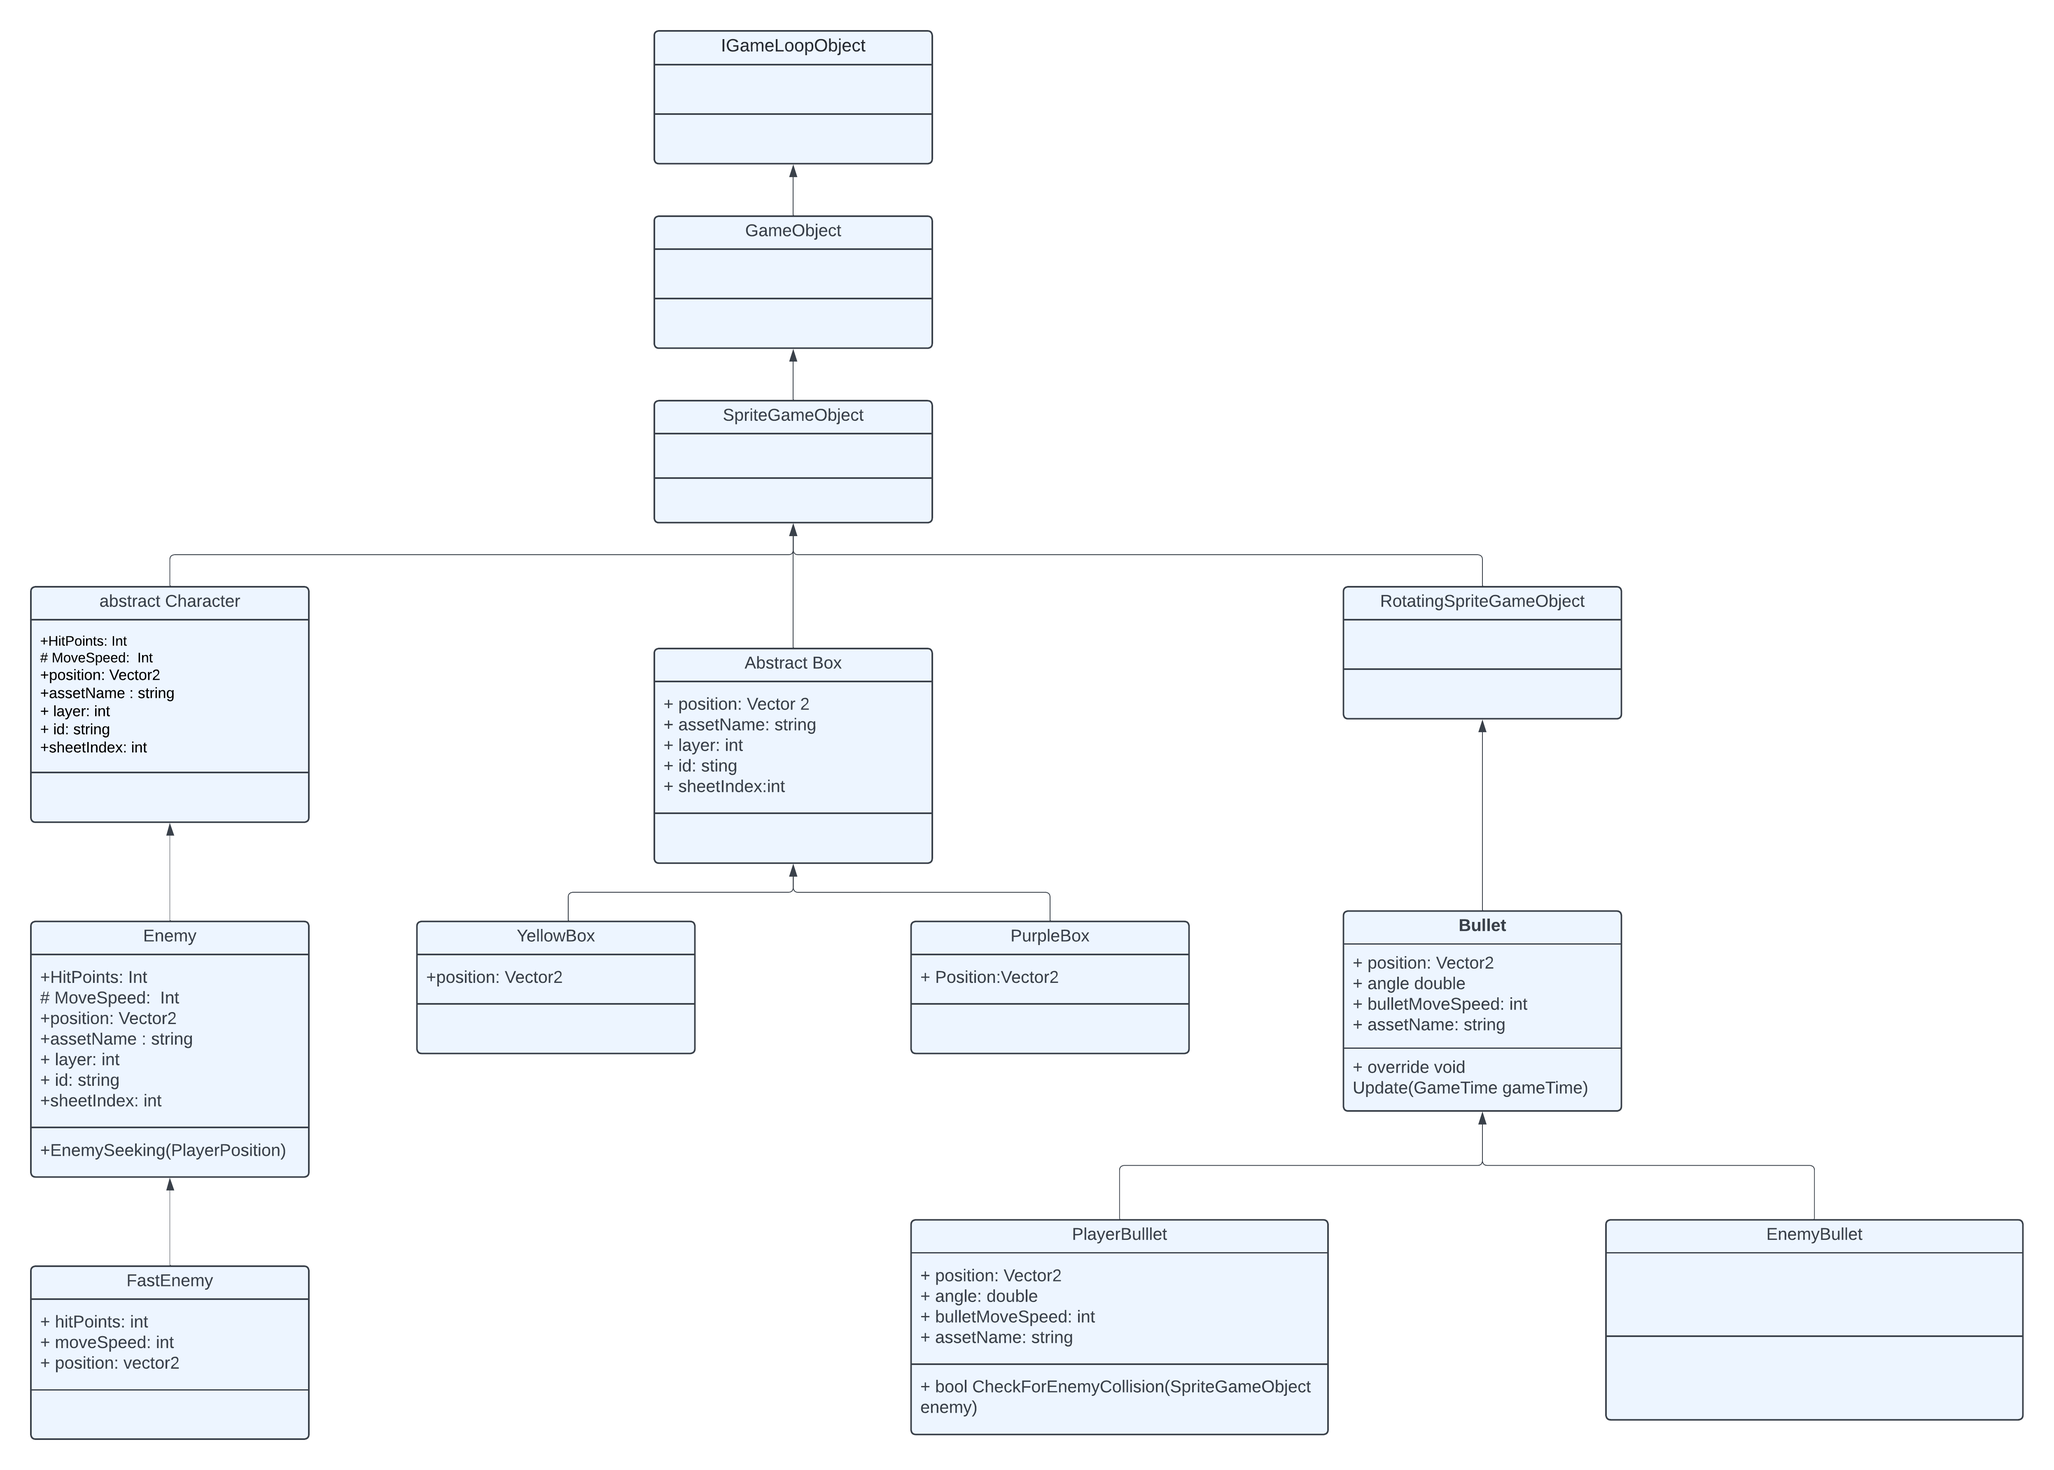
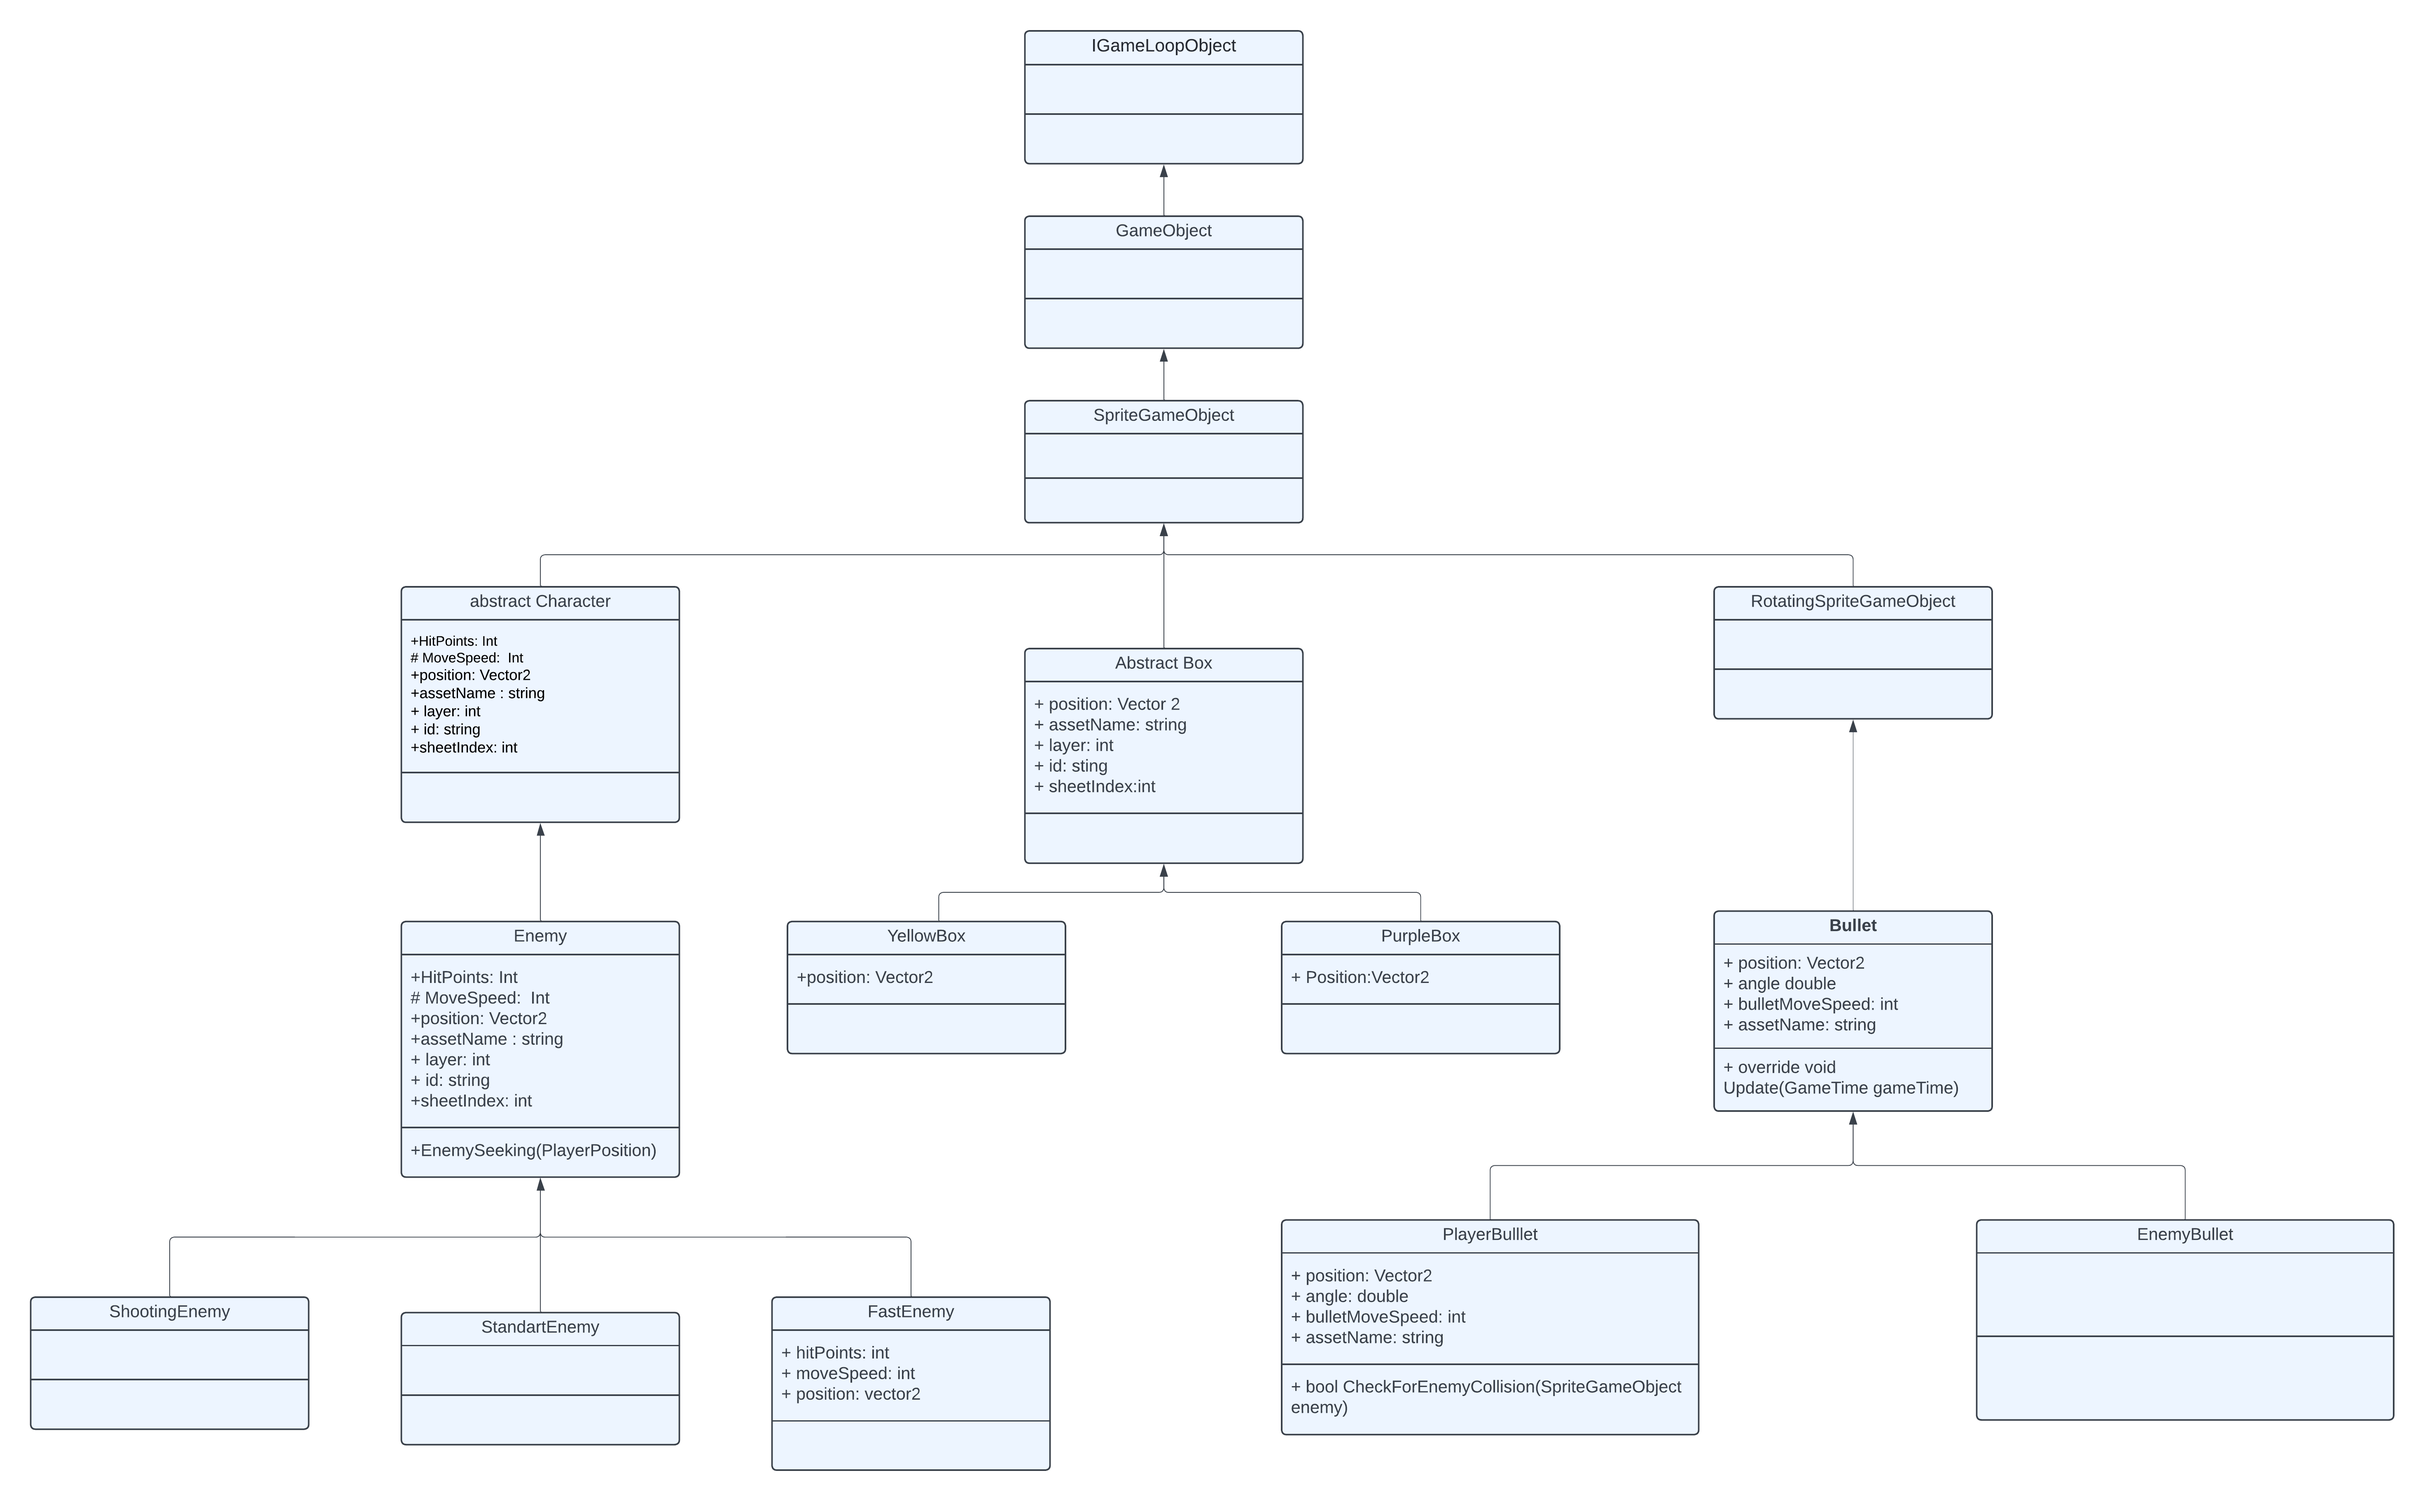
Expert review van doortje aangepast

diff --git a/docs/Doortje/sprint 3/Expert review-Doortje.md b/docs/Doortje/sprint 3/Expert review-Doortje.md
@@ -234,13 +234,26 @@ public override void Update(GameTime gameTime)
 
 ### Class diagram
 
+Voor dit project heb ik een UML class diagram gemaakt om de 
+relaties tussen alle classen te visualiseren. Er staan ook classes op die ik niet heb gemaakt, maar wel een relatie hebben met de classes die ik heb gemaakt en in gewerkt heb. Deze worden aangegeven met een leeg vak voor attributen en methodes. In alle classes in het diagram is te zien van welke variabelen en methods er gebruik wordt gemaakt en of ze private, protected of public zijn.
+
+
+Allereerst is er een Enemy class, deze class inherit van de abstracte class character. Van deze Enemy class inheriten 3 child classes genaamd ShootingEnemy, StandardEnemy en FastEnemy. De Enemy class inherit weer van een Character class die weer inherit van SpriteGameObject. 
+
+Ook heb ik een abstracte class Box gemaakt. Van deze class inheriten 2 child classes, deze zijn YellowBox en PurpleBox.
+
+Verder heb ik een Bullet class gemaakt, deze inherit van RotatingSpriteGameObject. PlayerBullet en Enemybullet inheriten weer van de Bullet class
+
 ![UML-class-diagram](../sprint%203/uml-class-diagram-blok4.png)
 
 ### Sequence diagram
 
+Voor deze expert review heb ik een Sequence diagram zodat ik één structuurdiagram en één gedragsdiagram heb gebruikt. Dit geeft een breder inzicht in de game. De sequence diagram geeft de flow van de game goed weer. Er is te zien dat de speler het spel kan starten waarna er een level wordt ingeladen met een wave aan enemies en een boss. De enemies schieten op de player en de player kan terugschieten naar de enemies. Als de speler de boss verslaat laat hij zijn wapen vallen en kan de speler het wapen oppakken en gebruiken. Als de speler alle enemies heeft verslagen spawnt er een nieuwe wave. Als de speler al zijn levens kwijt is of als alle waves met enemies zijn verslagen is het spel voorbij.
+
 ![Sequance-diagram](../sprint%203/Sequence-diagram-blok4.png)
 
 ## Database
+Voor de database heb ik een EER gemaakt in mySQL, een connection opgezet met de HBO-ICT cloud, de database gerealiseerd door middel van forward engineeren en met SQL statements data toegevoegd aan de database.
 
 ![EER](/docs/images/EERSprint2.png)  
 ![Connection](/docs/images/DatabaseConnection.png) 
@@ -250,6 +263,73 @@ public override void Update(GameTime gameTime)
 ## Principles
 
 ### Single responsibility principle
+Desingle responsibility hebben we toegepast bij de enemies. Wij hebben nu vershillende soorten enemies, namelijk: ShootingEnemy, StandardEnemy en FastEnemy. Hierbij wordt gelet op het juist overerven van de enemy classes. De enemies worden uitgebreid met schietende enemies en enemies met hogere snelheiden. Hierbij dienen de originele enemies niet aangepast te worden.
+
+=== "Enemy"
+```Csharp
+     public class Enemy : Character
+     {
+        public int EnemyMoveSpeed;
+        public Vector2 steering;
+        public Vector2 desired_velocity;
+        public int EnemyShootCooldown = 120;
+
+        public Enemy(int hitPoints, int moveSpeed, Vector2 position, string assetName, int layer = 0, string id = "", int sheetIndex = 0) : base(hitPoints, moveSpeed, position, assetName)
+        {
+            EnemyMoveSpeed = moveSpeed;
+        }
+
+        public void EnemySeeking(Vector2 PlayerPosition) // Made with the help of https://code.tutsplus.com/understanding-steering-behaviors-seek--gamedev-849t
+        {
+            desired_velocity = PlayerPosition - position;
+            desired_velocity.Normalize();
+            desired_velocity *= EnemyMoveSpeed;
+
+            steering = desired_velocity - velocity;
+
+            steering = steering / 5;
+            velocity = velocity + steering;
+            position += velocity;
+        }
+     }
+
+```
+
+ === "ShootingEnemy"
+```Csharp
+    public class ShootingEnemy : Enemy
+    {
+        public int EnemyHitPoints;
+        public ShootingEnemy(int hitPoints, int moveSpeed, Vector2 position) : base(hitPoints, moveSpeed, position, "Images/Characters/rat", 0, " ", 0)
+        {
+            EnemyHitPoints = hitPoints;
+        }
+    }
+
+```
+=== "StandardEnemy"
+```Csharp
+    public class StandardEnemy : Enemy
+    {
+        public int EnemyHitPoints;
+        public StandardEnemy(int hitPoints, int moveSpeed, Vector2 position) : base(hitPoints, moveSpeed, position, "Images/Enemies/standardEnemy", 0, " ", 0)
+        {
+            EnemyHitPoints = hitPoints;
+        }
+    }
+```
+=== "FastEnemy"
+```Csharp
+    public class FastEnemy : Enemy
+    {
+        
+        public FastEnemy(int hitPoints, int moveSpeed, Vector2 position) : base(hitPoints, moveSpeed, position, "Images/Characters/fastEnemy", 0, " ", 0)
+        {
+            EnemyHitPoints = hitPoints;
+            EnemyMoveSpeed = moveSpeed;
+        }
+    }
+```
 
 ### Dependency inversion principle
 
@@ -280,4 +360,4 @@ public abstract class Box : SpriteGameObject
 
         }
     }
-````
+```
